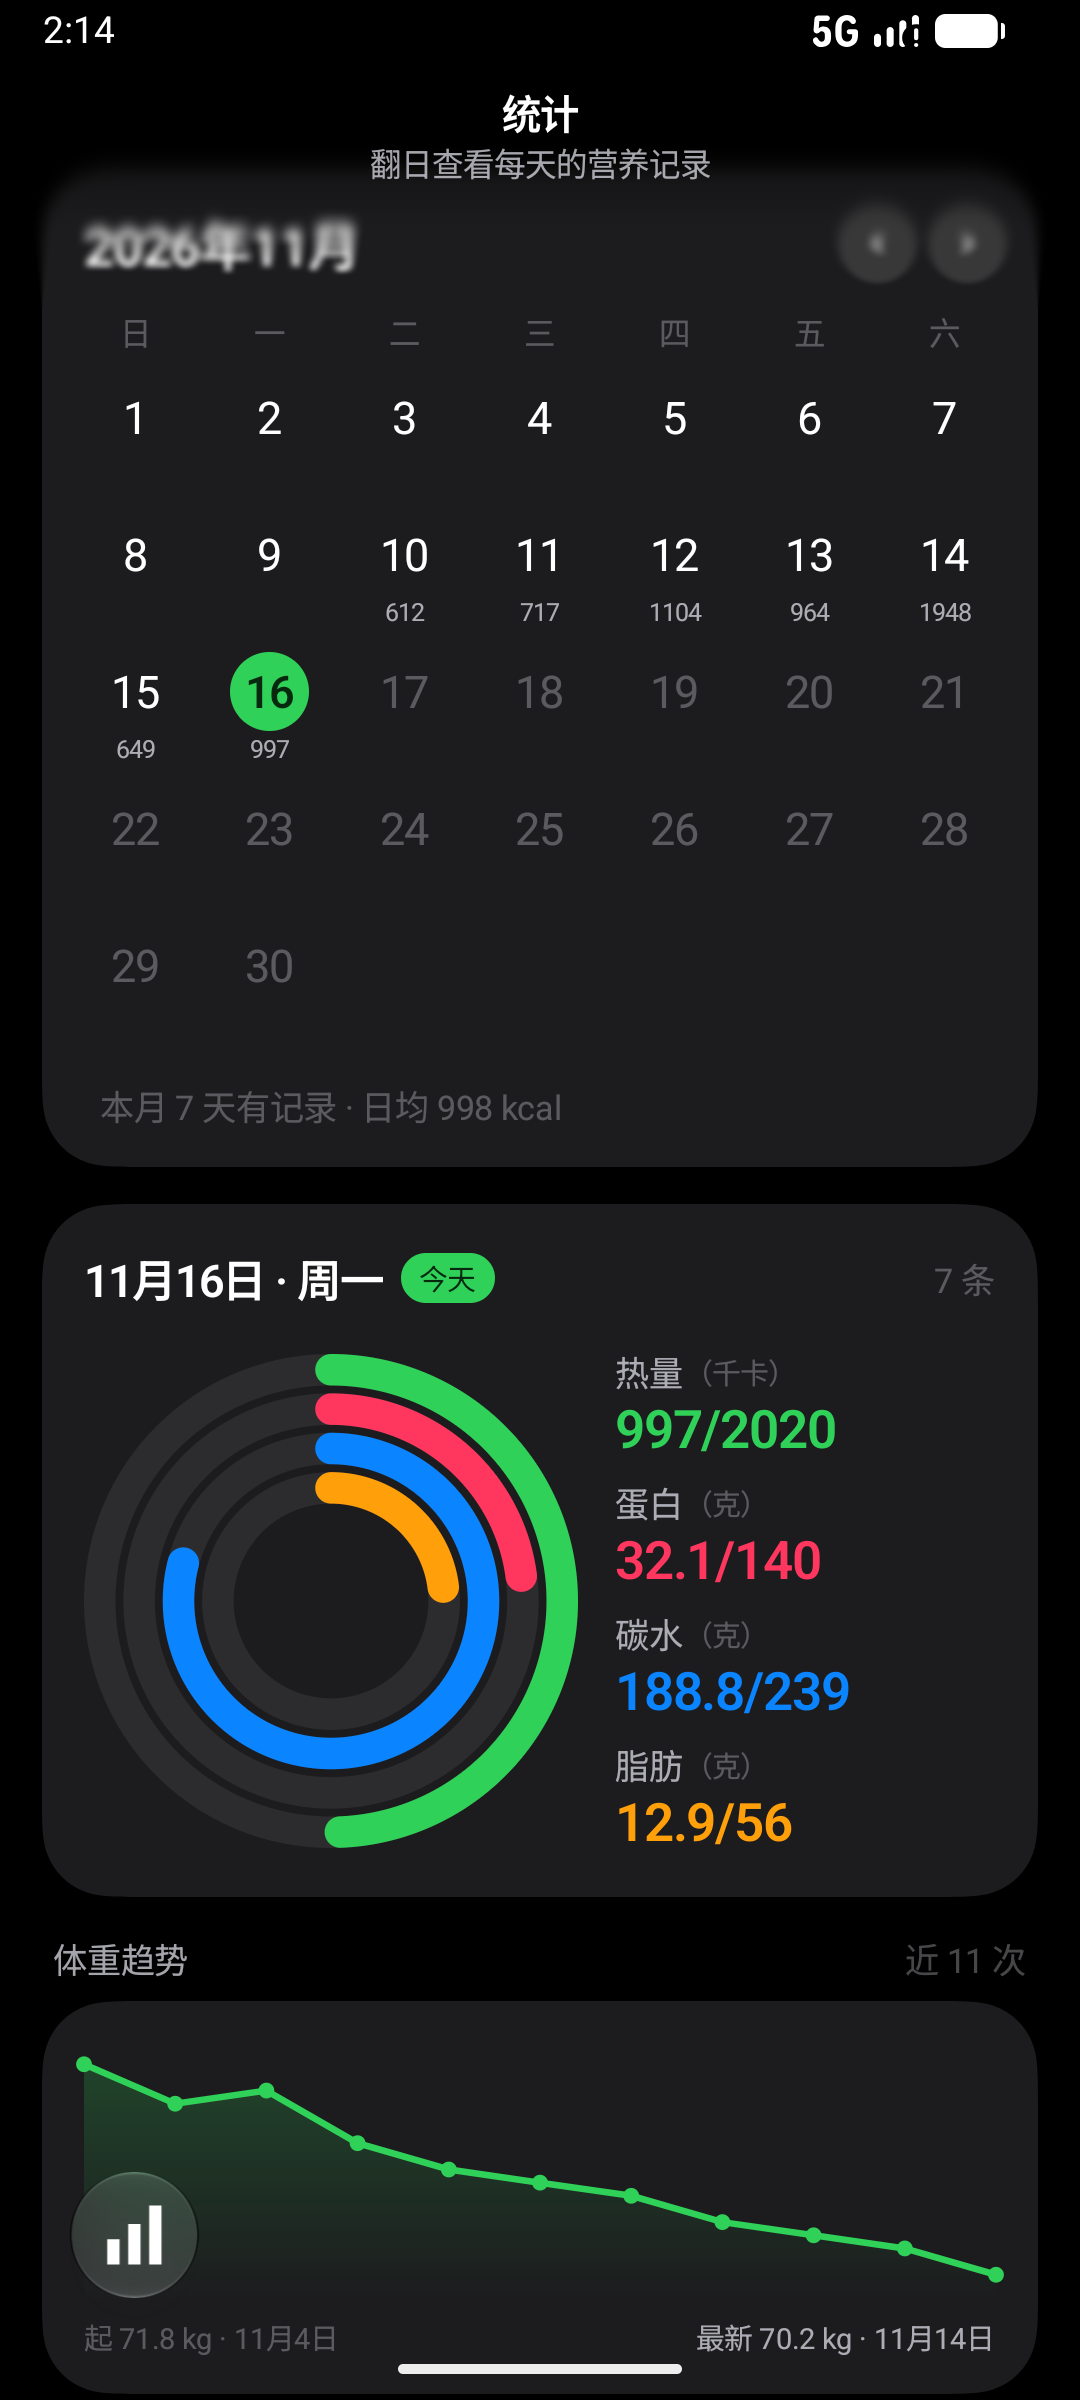
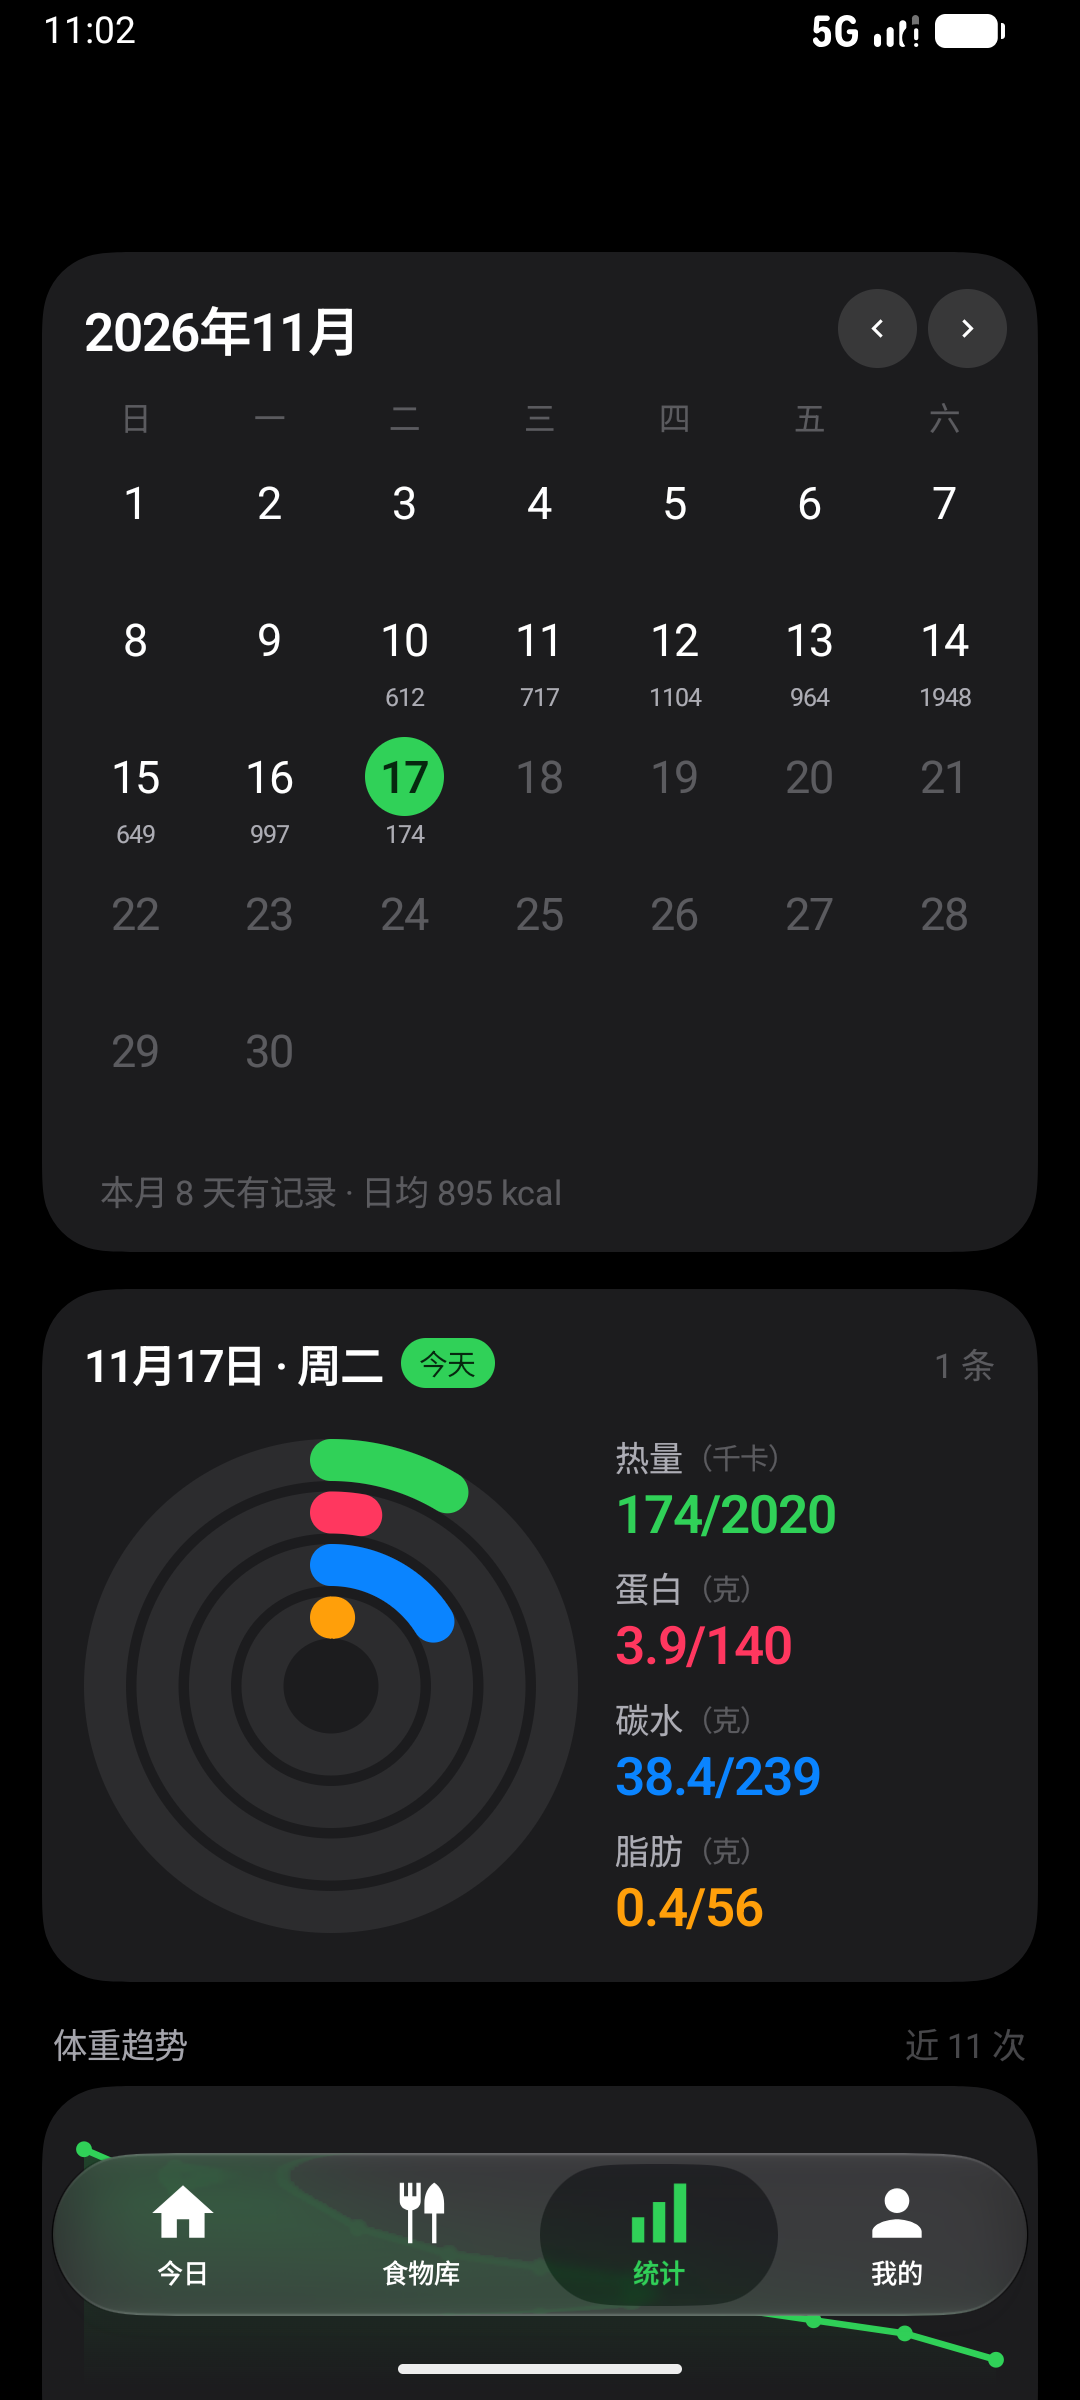
四个标签页去掉标题/副标题/页脚，记录份量改回弹窗，圆环加粗
- 今日/食物库/统计/我的一级页不再放大标题和副标题：今日页只在紧凑玻璃栏里保留「日期 + 前后一天」，
  食物库只留右上角「+」，统计不设顶栏；各页底部的提示/说明文字全部删除
- 记录份量（点一条记录）改回底部弹窗，不再进二级页面
- 同心环描边 12dp → 16dp、环间距 4dp，四个环更粗
- 截图同步（浅色/深色）

diff --git a/app/src/main/java/com/fitlog/app/ui/sheets/FoodSheets.kt b/app/src/main/java/com/fitlog/app/ui/sheets/FoodSheets.kt
@@ -624,7 +624,6 @@ fun EntrySheet(
     onDismiss: () -> Unit,
     onDelta: (Double) -> Unit,
     onDelete: () -> Unit,
-    pageMode: Boolean = false,
 ) {
     val colors = GlasmioTheme.colors
     val kcal = sheet.per.kcal * sheet.qty
@@ -688,31 +687,22 @@ fun EntrySheet(
         }
     }
 
-    if (pageMode) {
-        GlasmioPinnedPage(
-            navigateBackContentDescription = "返回",
-            title = sheet.name,
-            onNavigateBack = onDismiss,
-        ) { padding ->
-            pageBody(padding = padding, body = body)
-        }
-    } else {
-        GlasmioBottomSheet(
-            visible = visible,
-            onDismissRequest = onDismiss,
-            fitContent = true,
-            title = sheet.name,
-            topBar = {
-                GlasmioSheetTopToolbar(
-                    title = sheet.name,
-                    actions = {
-                        GlasmioSheetButton(onClick = onDismiss) { Text("完成") }
-                    },
-                )
-            },
-        ) {
-            body()
-        }
+    // 记录份量保持弹窗：只是改一个数字，弹窗比整页更轻
+    GlasmioBottomSheet(
+        visible = visible,
+        onDismissRequest = onDismiss,
+        fitContent = true,
+        title = sheet.name,
+        topBar = {
+            GlasmioSheetTopToolbar(
+                title = sheet.name,
+                actions = {
+                    GlasmioSheetButton(onClick = onDismiss) { Text("完成") }
+                },
+            )
+        },
+    ) {
+        body()
     }
 }
 

diff --git a/app/src/main/java/com/fitlog/app/ui/screens/TodayScreen.kt b/app/src/main/java/com/fitlog/app/ui/screens/TodayScreen.kt
@@ -57,11 +57,11 @@ fun TodayScreen(
     val isToday = date == Dates.today()
 
     GlasmioPinnedListPage(
-        title = if (isToday) "今日" else Dates.human(date),
-        // 不是今天时标题已经是日期了，副标题就换成目标，避免两行都写同一个日期。
-        subtitle = if (isToday) dateSubtitle(date) else "目标 ${targets.kcal} kcal",
+        // 只保留紧凑的日期栏：大标题和副标题都去掉，日期放在顶栏里保证翻日期时看得见
+        title = dateSubtitle(date),
         listState = listState,
         bottomPadding = bottomPadding,
+        showsLargeTitle = false,
         verticalArrangement = Arrangement.spacedBy(16.dp),
         actions = {
             GlasmioIconButton(onClick = { onShiftDate(-1) }) {
@@ -111,14 +111,6 @@ fun TodayScreen(
             }
         }
 
-        item(key = "footer") {
-            Text(
-                "点任意一条记录可以改份量；右上角左右箭头切换日期。",
-                style = IosTypography.footnote,
-                color = GlasmioTheme.colors.tertiaryContent,
-                modifier = Modifier.padding(start = 16.dp, end = 16.dp, top = 2.dp),
-            )
-        }
     }
 }
 

diff --git a/app/src/main/java/com/fitlog/app/ui/screens/LibraryScreen.kt b/app/src/main/java/com/fitlog/app/ui/screens/LibraryScreen.kt
@@ -74,10 +74,10 @@ fun LibraryScreen(
         )
 
     GlasmioPinnedListPage(
-        title = "食物库",
-        subtitle = "${foods.size} 种 · 全部由你自己维护",
+        title = "",
         listState = listState,
         bottomPadding = bottomPadding,
+        showsLargeTitle = false,
         verticalArrangement = Arrangement.spacedBy(0.dp),
         actions = {
             GlasmioIconButton(onClick = onNew) {
@@ -169,11 +169,5 @@ fun LibraryScreen(
             }
         }
 
-        item(key = "footer") {
-            Spacer(Modifier.height(10.dp))
-            IosGroupFooter(
-                "点任意一行可以修改份量或删除。批量导入时一行一条，空格或逗号分隔。",
-            )
-        }
     }
 }

diff --git a/app/src/main/java/com/fitlog/app/ui/screens/StatsScreen.kt b/app/src/main/java/com/fitlog/app/ui/screens/StatsScreen.kt
@@ -73,10 +73,10 @@ fun StatsScreen(
     var weightInput by rememberSaveable { mutableStateOf("") }
 
     GlasmioPinnedListPage(
-        title = "统计",
-        subtitle = "翻日查看每天的营养记录",
+        title = "",
         listState = listState,
         bottomPadding = bottomPadding,
+        showsLargeTitle = false,
         verticalArrangement = Arrangement.spacedBy(14.dp),
     ) {
         item(key = "calendar") {
@@ -189,9 +189,6 @@ fun StatsScreen(
             }
         }
 
-        item(key = "footer") {
-            IosGroupFooter("建议每天早晨空腹、上完厕所后称，看周平均而不是单日。")
-        }
     }
 }
 

diff --git a/app/src/main/java/com/fitlog/app/ui/components/IosPrimitives.kt b/app/src/main/java/com/fitlog/app/ui/components/IosPrimitives.kt
@@ -648,10 +648,10 @@ private fun MacroRings(
     val track = colors.systemGray5
 
     Canvas(modifier) {
-        val stroke = 12.dp.toPx()
+        val stroke = 16.dp.toPx()
         // 圈与圈之间留一点缝：几个值都很小时（比如刚记录一项），
         // 贴在一起的圆头会糊成一块色斑，分开才能看出是四个环。
-        val gap = 3.dp.toPx()
+        val gap = 4.dp.toPx()
         val step = stroke + gap
         val outer = size.minDimension / 2f - stroke / 2f
 

diff --git a/app/src/main/java/com/fitlog/app/ui/FitLogApp.kt b/app/src/main/java/com/fitlog/app/ui/FitLogApp.kt
@@ -347,7 +347,6 @@ private fun SheetPageArea(vm: AppViewModel, data: AppData) {
             is Sheet.Entry -> EntrySheet(
                 sheet = current,
                 visible = true,
-                pageMode = true,
                 onDismiss = { vm.closeSheet() },
                 onDelta = { vm.changeEntryQty(it) },
                 onDelete = { vm.deleteEntry(current.date, current.entryId) },

diff --git a/README.md b/README.md
@@ -3,7 +3,7 @@
 自用的本地饮食记录 App。纯离线，数据只放在手机里，不联网、不登录、没有网络权限。
 
 原生 Kotlin + Jetpack Compose，界面是 **iOS 液态玻璃（Liquid Glass）风格**：
-大标题 + 分组列表 + 悬浮玻璃底栏，滚动时底栏和标题栏会像 iOS 一样收缩、模糊、透出底下的内容。
+分组列表 + 悬浮玻璃底栏；四个标签页都不再放大标题/副标题，内容直接从顶部开始，滚动时顶栏做渐进模糊。
 
 - **工程位置**：`D:\AndroidProjects\FitLog`
 - **包名**：`com.fitlog.app`
@@ -92,7 +92,7 @@ FitLogTheme {                       // 主题：GlasmioTheme + FitLog 品牌色
 
 每个 Tab 都是一个 `GlasmioPinnedListPage`：
 
-- 大标题 + 副标题，滚动到阈值后自动收进顶部工具栏（弹簧动画）
+- 四个标签页都不再放大标题和副标题：今日页只在紧凑玻璃栏里保留「日期 + 前后一天」
 - 顶部工具栏带渐进模糊，页面内容从下面滚过时会被磨砂
 - `actions` 槽放玻璃按钮（今日页的左右箭头、食物库的加号）
 - 内容用 `GlasmioGroupedList` + `GlasmioListRow`，就是 iOS「设置」那种分组表格
@@ -341,7 +341,7 @@ AGP 9.0 起内置 Kotlin 支持，**不再需要** `org.jetbrains.kotlin.android
 | 食物库 | 新建/编辑/删除、七个分类、按使用频次排序、按营养表（能量填 kJ、每 100 g）+ 实际克数自动折算、批量粘贴导入（支持 `485kj`）、空库引导建第一个 |
 | 统计 | 月历（每天标出当日热量，可一直往回翻）、点某天看当日详情（与今日页同一套四圈环，不重复列餐次）、体重折线、记体重 |
 | 我的 | 一级只有「目标」「设置」两行（无标题、图标、副标题）；目标页只读展示每日目标（蛋白/碳水/脂肪各一行，身高体重分两格）与身体消耗；设置页放修改资料、备份地址、导出/导入和上次备份时间 |
-| 体验 | 深浅色跟随系统、大标题随滚动收起、底栏随滚动收缩、二级页面玻璃顶栏 + 水平推入、键盘弹起时表单自动上移 |
+| 体验 | 深浅色跟随系统、底栏随滚动收缩、二级页面玻璃顶栏 + 水平推入、键盘弹起时表单自动上移 |
 
 ### 用起来要知道的三件事
 
@@ -381,7 +381,7 @@ AGP 9.0 起内置 Kotlin 支持，**不再需要** `org.jetbrains.kotlin.android
 |---|---|
 | 首次启动 | 自动打开「资料与目标」二级页面；取消后不再反复弹 |
 | 四个 Tab | 今日 / 食物库 / 统计 / 我的 都能切，选中胶囊和页面一致 |
-| 大标题收起 | 向上滚动后标题收进工具栏、顶部渐进模糊生效 |
+| 紧凑顶栏 | 四个标签页都没有大标题/副标题/页脚；今日页顶栏只留日期和前后一天，内容滚到下面时顶栏渐进模糊 |
 | 底栏收缩 | 滚动 64dp 后收成左下角小圆，点一下展开 |
 | 选择食物 → 记录 | 步进到「已选 1 份 · 约 104 kcal」，入账后今日页晚餐多出一条 |
 | 今日概览 | 环在左、四组数值在右：热量 649/2020 千卡、蛋白 24.3/140 克、碳水 112/239 克、脂肪 12.1/56 克；超标时对应那一项的数值和环一起转红 |
